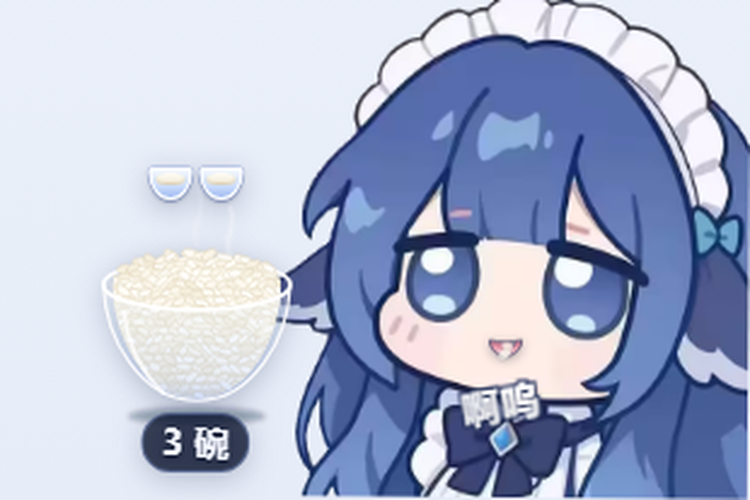
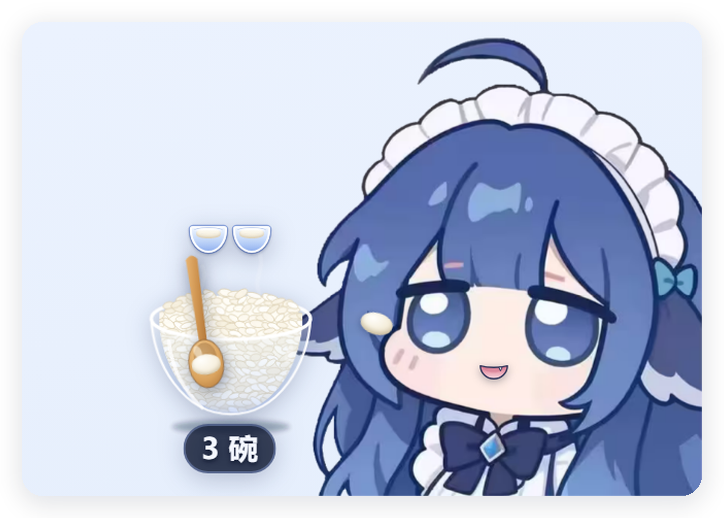
feat: v0.5.1 更可爱的吃饭音效 + 可爱版截图 + demo 音效试听

diff --git a/assets/client.js b/assets/client.js
@@ -884,6 +884,7 @@
       if (rt.begShowTimer) clearTimeout(rt.begShowTimer);
       rt.begShowTimer = setTimeout(function () { if (rt.layer) rt.layer.classList.remove('dshwr-beg'); }, 1500);
     }
+    playSound('beg');
     if (rt.settings.eat) {
       layoutMouth();
       var mouth = rt.els && rt.els.mouth;
@@ -1167,7 +1168,7 @@
     if (!rt.els) return;
     var remaining = liveRemain();
     var tank = tankOf(activeSid());
-    var html = '<div class="dshwr-set-title"><span class="dshwr-unflip">白饭预言家</span><small>v0.5.0</small></div>';
+    var html = '<div class="dshwr-set-title"><span class="dshwr-unflip">白饭预言家</span><small>v0.5.1</small></div>';
     html += setRow('begging', '没饭时讨饭', rt.settings.begging);
     html += setRow('eat', '吃饭动作（嘴 / 嚼）', rt.settings.eat);
     html += setRow('sound', '吃饭音效', rt.settings.sound);
@@ -1303,7 +1304,7 @@
     osc.start(t); osc.stop(t + (opts.dur || 0.1) + 0.02);
   }
 
-  /** kind: pour（倒饭）/ scoop（舀饭）/ clink（碰碗）/ chew（咀嚼） */
+  /** kind: pour（倒饭）/ scoop（舀饭）/ clink（碰碗）/ chew（咀嚼）/ beg（讨饭） */
   function playSound(kind) {
     if (rt.settings && rt.settings.sound === false) return;
     if (document.hidden) return;
@@ -1311,22 +1312,44 @@
     if (!ctx) return;
     try {
       if (kind === 'pour') {
-        playNoise(ctx, { type: 'bandpass', freq: 1500, freqEnd: 2600, q: 0.7, dur: 0.3, gain: 0.045, attack: 0.03 });
-        playNoise(ctx, { type: 'highpass', freq: 3200, q: 0.6, dur: 0.22, gain: 0.018, at: 0.04 });
+        // 倒饭：轻轻的沙沙声 + 一点亮晶晶的碎响
+        playNoise(ctx, { type: 'bandpass', freq: 1800, freqEnd: 3000, q: 0.6, dur: 0.28, gain: 0.03, attack: 0.04 });
+        playTone(ctx, { type: 'sine', freq: 1200, freqEnd: 1650, dur: 0.16, gain: 0.012, at: 0.05 });
+        playTone(ctx, { type: 'sine', freq: 1500, freqEnd: 1200, dur: 0.12, gain: 0.01, at: 0.16 });
       } else if (kind === 'scoop') {
-        playNoise(ctx, { type: 'bandpass', freq: 700, freqEnd: 1300, q: 1.1, dur: 0.24, gain: 0.05 });
-        playTone(ctx, { freq: 320, freqEnd: 190, dur: 0.12, gain: 0.018 });
+        // 木勺舀饭：软软的「沙」+ 上扬的小「啵」
+        playNoise(ctx, { type: 'bandpass', freq: 900, freqEnd: 1500, q: 0.8, dur: 0.16, gain: 0.026, attack: 0.02 });
+        playTone(ctx, { type: 'sine', freq: 620, freqEnd: 980, dur: 0.1, gain: 0.02, at: 0.01 });
+        playTone(ctx, { type: 'triangle', freq: 1560, freqEnd: 1860, dur: 0.07, gain: 0.008, at: 0.05 });
       } else if (kind === 'clink') {
-        playTone(ctx, { type: 'triangle', freq: 2200, dur: 0.09, gain: 0.025 });
-        playTone(ctx, { type: 'triangle', freq: 3150, dur: 0.06, gain: 0.014, at: 0.012 });
+        // 勺碰碗：小铃铛「叮」，两颗高音叠一起，余音软软的
+        playTone(ctx, { type: 'sine', freq: 2093, dur: 0.26, gain: 0.016 });
+        playTone(ctx, { type: 'sine', freq: 2637, dur: 0.2, gain: 0.011, at: 0.01 });
+        playTone(ctx, { type: 'triangle', freq: 3520, dur: 0.12, gain: 0.005, at: 0.02 });
       } else if (kind === 'chew') {
-        for (var i = 0; i < 3; i++) {
-          playNoise(ctx, { type: 'lowpass', freq: 560 - i * 70, q: 0.9, dur: 0.085, gain: 0.055, at: i * 0.1, attack: 0.008 });
-        }
-        playTone(ctx, { freq: 150, freqEnd: 92, dur: 0.16, gain: 0.035 });
+        // 咀嚼：软软的两下「嗯嘛」，圆润、偏高，不用低频轰隆声
+        playTone(ctx, { type: 'sine', freq: 640, freqEnd: 430, dur: 0.1, gain: 0.026, attack: 0.012 });
+        playTone(ctx, { type: 'triangle', freq: 1280, freqEnd: 900, dur: 0.07, gain: 0.007, at: 0.004 });
+        playNoise(ctx, { type: 'bandpass', freq: 1400, q: 1.4, dur: 0.05, gain: 0.008, at: 0.01 });
+        playTone(ctx, { type: 'sine', freq: 560, freqEnd: 380, dur: 0.1, gain: 0.02, at: 0.14, attack: 0.012 });
+        playTone(ctx, { type: 'triangle', freq: 1120, freqEnd: 780, dur: 0.06, gain: 0.006, at: 0.145 });
+        playTone(ctx, { type: 'sine', freq: 860, freqEnd: 720, dur: 0.06, gain: 0.006, at: 0.23 });
+      } else if (kind === 'beg') {
+        // 讨饭：软软的一声「呜…」，尾音往下掉
+        playTone(ctx, { type: 'sine', freq: 880, freqEnd: 560, dur: 0.38, gain: 0.015, attack: 0.02 });
+        playTone(ctx, { type: 'triangle', freq: 440, freqEnd: 320, dur: 0.34, gain: 0.006, at: 0.02 });
+        playTone(ctx, { type: 'sine', freq: 980, freqEnd: 640, dur: 0.3, gain: 0.007, at: 0.1 });
       }
     } catch (err) {}
   }
+
+  // 给本地 demo / 调试音效用（只是转发，不参与业务逻辑）
+  try {
+    window.__dshwhaleRiceSound = function (kind) {
+      audioReady();
+      playSound(kind);
+    };
+  } catch (err) {}
 
   // ---------- 吃饭动作 ----------
 

diff --git a/demo/index.html b/demo/index.html
@@ -5,7 +5,7 @@
 <title>白饭预言家 · demo</title>
 <meta name="viewport" content="width=device-width, initial-scale=1">
 <style>
-  html, body { margin: 0; height: 100%; background: radial-gradient(1200px 700px at 70% 20%, #f7f9ff 0%, #e9eef9 55%, #dfe6f5 100%); }
+  html, body { margin: 0; height: 100%; background: radial-gradient(520px 420px at 78% 22%, rgba(255, 214, 232, 0.75), transparent 70%), radial-gradient(560px 460px at 18% 80%, rgba(255, 240, 205, 0.7), transparent 72%), radial-gradient(700px 560px at 55% 10%, rgba(214, 232, 255, 0.85), transparent 75%), linear-gradient(165deg, #fdf5fc 0%, #eef4ff 55%, #e5eefc 100%); }
   .dshwv-root { position: fixed; right: 0; bottom: 0; width: 380px; height: 380px; z-index: 5; }
   .dshwv-img { position: absolute; right: 0; bottom: 0; width: 59.45%; height: 59.45%; display: block; object-fit: contain; object-position: right bottom; -webkit-user-drag: none; }
   .panel { position: fixed; left: 18px; top: 16px; width: 300px; padding: 14px 16px; border-radius: 14px; background: rgba(255,255,255,0.82); border: 1px solid rgba(140,165,225,0.4); box-shadow: 0 12px 30px rgba(30,50,100,0.12); font: 13px/1.6 system-ui, -apple-system, "Segoe UI", "PingFang SC", "Microsoft YaHei", sans-serif; color: #27355c; }
@@ -48,6 +48,12 @@
     <button id="btn-eat">吃 2.6K</button>
     <button id="btn-eat2">吃 5.4K</button>
     <button id="btn-end">结束本轮（turn/end）</button>
+  </div>
+  <div class="row">
+    <button data-sound="scoop">试听：舀饭</button>
+    <button data-sound="clink">碰碗</button>
+    <button data-sound="chew">咀嚼</button>
+    <button data-sound="beg">讨饭</button>
   </div>
   <div class="row">
     <button id="btn-run">一键跑完一轮</button>
@@ -109,6 +115,12 @@
     await mock({ turn: state.turn, running: 1, actual: 5400 });
     await wait(1000);
     await mock({ turn: state.turn, running: 0, actual: 5400 });
+  });
+  document.querySelectorAll('[data-sound]').forEach(function (btn) {
+    btn.addEventListener('click', function () {
+      var kind = btn.getAttribute('data-sound');
+      if (window.__dshwhaleRiceSound) window.__dshwhaleRiceSound(kind);
+    });
   });
   document.getElementById('btn-empty').addEventListener('click', function () {
     var t = tank();

diff --git a/assets/client.css b/assets/client.css
@@ -710,7 +710,7 @@
 .dshwr-stack {
   position: absolute;
   left: 50%;
-  bottom: 103%;
+  bottom: 101%;
   transform: translateX(-50%);
   display: flex;
   align-items: flex-end;
@@ -721,11 +721,23 @@
 .dshwr-pip {
   position: relative;
   width: 0.92em;
-  height: 0.64em;
-  border-radius: 0.1em 0.1em 0.52em 0.52em / 0.08em 0.08em 0.64em 0.64em;
-  background: linear-gradient(180deg, rgba(246, 250, 255, 0.95), rgba(206, 224, 255, 0.88) 56%, rgba(158, 186, 244, 0.92));
+  height: 0.66em;
+  border-radius: 0.1em 0.1em 0.54em 0.54em / 0.08em 0.08em 0.66em 0.66em;
+  background: linear-gradient(180deg, rgba(236, 244, 255, 0.98), rgba(190, 212, 250, 0.95) 58%, rgba(146, 178, 240, 0.98));
   border: 1px solid rgba(255, 255, 255, 0.95);
-  box-shadow: 0 0.05em 0.1em rgba(8, 20, 60, 0.3), 0 0 0 0.035em rgba(120, 150, 220, 0.55);
+  box-shadow: 0 0.05em 0.1em rgba(8, 20, 60, 0.32), 0 0 0 0.035em rgba(110, 142, 214, 0.75);
+}
+.dshwr-pip::after {
+  content: "";
+  position: absolute;
+  left: 8%;
+  right: 8%;
+  top: 1%;
+  height: 20%;
+  border-radius: 50%;
+  border-top: 0.06em solid rgba(255, 255, 255, 0.95);
+  box-shadow: 0 -0.02em 0 rgba(120, 150, 215, 0.55);
+  opacity: 0.9;
 }
 .dshwr-pip::before {
   content: "";

diff --git a/README-En.md b/README-En.md
@@ -28,7 +28,7 @@ Eating close-up (whale art belongs to the host widget): a grin with one little f
 | --- | --- |
 | Host | The DSH whale balance widget `dsh-whale-widget`. This plugin is an add-on, not a replacement. |
 | Gameplay | Each conversation has its own rice pot: click the bowl to load 1 / 2 / 5 bowls (1 bowl = 1,000,000 tokens). Every turn eats real tokens; at turn end a bubble reports "ate X · Y bowls left". At zero it begs automatically. |
-| Visuals | Transparent glass bowl with a solid mound of cooked rice (grain texture on the surface). Main bowl + up to 4 bowl slots show the stock (max 5 bowls on screen; beyond that the ledger keeps counting while the UI stays unchanged). The whale grins (one fang), a wooden spoon scoops, a rice ball flies into its mouth, plus synthesized scoop / clink / chew sounds (WebAudio, no audio files). |
+| Visuals | Transparent glass bowl with a solid mound of cooked rice (grain texture on the surface). Main bowl + up to 4 bowl slots show the stock (max 5 bowls on screen; beyond that the ledger keeps counting while the UI stays unchanged). The whale grins (one fang), a wooden spoon scoops, a rice ball flies into its mouth, plus cuter synthesized scoop / clink / chew sounds (WebAudio, no audio files). |
 | Ledger | Per conversation (DSH session): loaded / eaten / remaining. Switching conversations switches pots; survives page refresh. |
 | Not | Not a pet-raising game, no levels or memory, no auto-estimation, does not read conversation content, no network upload. |
 

diff --git a/docs/tech-notes.md b/docs/tech-notes.md
@@ -75,6 +75,13 @@ v0.5.0 的做法：
 * 真机 / 无头验证过的点：饭碗挂载、嘴中心坐标、主碗+碗位数量、每轮报账、短回合补演、空碗讨饭、pending 预装饭、菜单 3 档、饭账面板、无 console 报错。
 * demo 预览的鲸鱼立绘优先读本机宿主插件里的 `DSniang1.png`（可用 `DSH_WHALE_ART` 覆盖）；不打包进 npm。
 
+## 8.5 音效（v0.5.1 起）
+
+* 全部用 WebAudio 现场合成，不打包任何音频；音量整体压低（peak 0.005~0.03）。
+* `playSound(kind)`：`scoop`（舀饭：带通噪声轻「沙」+ 620→980Hz 小「啵」+ 高音亮片）、`clink`（碰碗：2093/2637/3520Hz 三颗正弦叠成软铃铛）、`chew`（咀嚼：640→430Hz 与 560→380Hz 两下圆润「嗯嘛」+ 一点高频碎响）、`beg`（讨饭：880→560Hz 下滑的一声「呜…」）。
+* 音效开关在产品设置里（`sound`）；`document.hidden` 时不播。
+* 调试 / demo 钩子：`window.__dshwhaleRiceSound('chew')`（内部会先 `audioReady()`，可在用户手势里直接调）。
+
 ## 9. 已知限制
 
 * 默认 100 万 token 一碗：普通一轮只占 0.5%，视觉变化小；`tokensPerBowl` 可调。

diff --git a/CHANGELOG.md b/CHANGELOG.md
@@ -1,5 +1,12 @@
 # Changelog
 
+## 0.5.1 — 2026-10-18
+
+* 吃饭音效换成更可爱的版本：舀饭 = 软软「沙」+ 上扬小「啵」，碰碗 = 小铃铛「叮」，咀嚼 = 软软两下「嗯嘛」，讨饭 = 一声「呜…」；整体音量更轻。
+* demo 页面加了「试听音效」按钮（舀饭 / 碰碗 / 咀嚼 / 讨饭），可以直接听。
+* README 截图换成更可爱的版本：柔和粉蓝背景 + 拉近的圆角卡片，文件更小、加载更快。
+* 内置调试钩子 `window.__dshwhaleRiceSound(kind)`（仅供 demo / 调试）。
+
 ## 0.5.0 — 2026-10-18
 
 玩法重做：从「每轮押注 / 预测 vs 实际」改成「装饭 → 每轮吃 → 报账 → 讨饭」。
